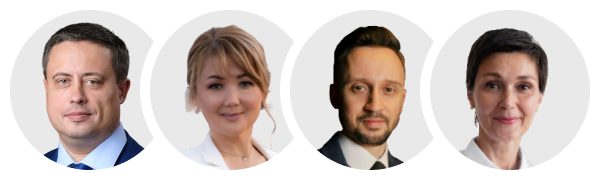
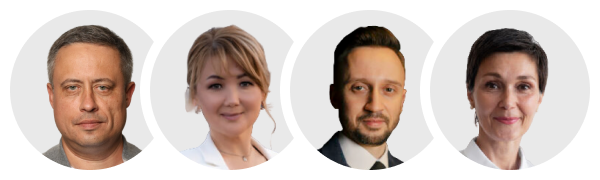
вау, еще правки

Changed region(s): [[0.06, 0.1111, 0.24, 0.9444]]

diff --git a/assets/src/scss/main.scss b/assets/src/scss/main.scss
@@ -1125,7 +1125,67 @@ section:first-child {
     font-size: 14px;
     line-height: 120%;
   }
+}
 
+// это стили для блока с файлом
+
+.text-block {
+  .ren8 {
+    background: #f9f9f9; 
+    border: 1px solid #e5e5e5; 
+    border-radius: 4px;
+    padding: 25px;
+    margin: 40px 0; 
+    box-sizing: border-box;
+
+    & > p:first-child {
+      font-weight: 600; 
+      font-size: 18px;
+      color: #2f2f30;
+      margin-bottom: 12px;
+    }
+
+    & > p:last-child {
+      display: flex; 
+      align-items: center;
+    }
+
+    img.fileico {
+      width: 32px;
+      height: auto;
+      margin-right: 15px;
+      display: block;
+    }
+
+    a.bilnk {
+      font-weight: 500;
+      font-size: 16px;
+      line-height: 130%;
+      color: #2d6281; 
+      text-decoration: underline;
+      transition: color 0.3s ease;
+      word-break: break-word; 
+
+      &:hover {
+        text-decoration: none;
+        color: #da4f39; 
+      }
+    }
+  }
+}
+
+@media (max-width: 420px) {
+  .text-block .ren8 {
+    padding: 20px;
+    
+    & > p:first-child {
+      font-size: 16px;
+    }
+
+    a.bilnk {
+      font-size: 14px;
+    }
+  }
 }
 
 //====================================================================================================

diff --git a/assets/src/scss/main-diff.scss b/assets/src/scss/main-diff.scss
@@ -1508,9 +1508,9 @@ img {
   align-items: center;
 }
 
-.spheres-text {
-  max-width: 380px;
-}
+// .spheres-text {
+//   max-width: 400px;
+// }
 
 @media screen and (max-width: 420px) {
   .calc-body__sub-wrapper a {
@@ -3410,6 +3410,17 @@ img {
   .faq-accordion__subtitle {
     max-width: 590px;
     margin: 0 auto;
+  }
+}
+
+.pricing__link {
+  color: #2d6281; 
+  text-decoration: underline;
+  transition: all 0.3s ease;
+
+  &:hover {
+    color: #da4f39;
+    text-decoration: none;
   }
 }
 

diff --git a/templates/buh-vosstanovlenie-template.php b/templates/buh-vosstanovlenie-template.php
@@ -707,7 +707,7 @@ get_header();
               <img src="<?php echo get_template_directory_uri(); ?>/static/img/icons/tiles/spheres3.png"
                    alt="sphere icons" class="sphere-img">
               <span class="spheres-text">
-            <?php echo $reviews_query->found_posts; ?>+ положительных отзывов <br>от бизнеса Москвы и МО
+            120+ положительных отзывов <br>от бизнеса Москвы и МО
           </span>
             </div>
             <a href="<?php echo home_url('/otzivi/'); ?>" class="btn btn_arr">Все отзывы</a>
@@ -749,169 +749,45 @@ get_header();
         </h2>
 
         <div class="case-tiles__grid">
+          <?php
+          $cases_query = new WP_Query([
+            'post_type'      => 'buh_keysi',
+            'posts_per_page' => 6,
+            'post_status'    => 'publish',
+          ]);
 
-          <div class="case-card">
-            <div class="case-card__case-number">
-              <p>Кейс #1</p>
-            </div>
-            <img class="case-card__icon"
-                 src="<?php echo get_template_directory_uri(); ?>\static\img\icons\main-page\online-white.svg"
-                 alt="Online shops Icon">
-            <h3 class="case-card__title">Интернет-магазин</h3>
-            <div class="case-card__desc">
-              <svg width="22" height="22" viewBox="0 0 22 22" fill="none" xmlns="http://www.w3.org/2000/svg">
-                <path
-                  d="M8.75417 16.5005L3.52917 11.2755L4.83542 9.96921L8.75417 13.888L17.1646 5.47754L18.4708 6.78379L8.75417 16.5005Z"
-                  fill="url(#paint0_linear_262_1127)"/>
-                <defs>
-                  <linearGradient id="paint0_linear_262_1127" x1="11.0372" y1="16.5005" x2="11.0372" y2="5.47754"
-                                  gradientUnits="userSpaceOnUse">
-                    <stop stop-color="#F0572D"/>
-                    <stop offset="1" stop-color="#CE441E"/>
-                  </linearGradient>
-                </defs>
-              </svg>
-              <p>
-                Снизили задолженность по налогам на <span class="text-blue" style="font-weight: 590">3,7 млн ₽ (–88%)</span>
-              </p>
-            </div>
-          </div>
-
-          <div class="case-card">
-            <div class="case-card__case-number">
-              <p>Кейс #2</p>
-            </div>
-            <img class="case-card__icon"
-                 src="<?php echo get_template_directory_uri(); ?>\static\img\icons\main-page\online-white.svg"
-                 alt="Online shops Icon">
-            <h3 class="case-card__title">Строительная компания</h3>
-            <div class="case-card__desc">
-              <svg width="22" height="22" viewBox="0 0 22 22" fill="none" xmlns="http://www.w3.org/2000/svg">
-                <path
-                  d="M8.75417 16.5005L3.52917 11.2755L4.83542 9.96921L8.75417 13.888L17.1646 5.47754L18.4708 6.78379L8.75417 16.5005Z"
-                  fill="url(#paint0_linear_262_1127)"/>
-                <defs>
-                  <linearGradient id="paint0_linear_262_1127" x1="11.0372" y1="16.5005" x2="11.0372" y2="5.47754"
-                                  gradientUnits="userSpaceOnUse">
-                    <stop stop-color="#F0572D"/>
-                    <stop offset="1" stop-color="#CE441E"/>
-                  </linearGradient>
-                </defs>
-              </svg>
-              <p>
-                Вернули переплаченные налоги: <span class="text-blue" style="font-weight: 590">205 000 ₽</span>
-              </p>
-            </div>
-          </div>
-
-          <div class="case-card">
-            <div class="case-card__case-number">
-              <p>Кейс #3</p>
-            </div>
-            <img class="case-card__icon"
-                 src="<?php echo get_template_directory_uri(); ?>\static\img\icons\main-page\cafe-white.svg"
-                 alt="Online shops Icon">
-            <h3 class="case-card__title">Строительная компания</h3>
-            <div class="case-card__desc">
-              <svg width="22" height="22" viewBox="0 0 22 22" fill="none" xmlns="http://www.w3.org/2000/svg">
-                <path
-                  d="M8.75417 16.5005L3.52917 11.2755L4.83542 9.96921L8.75417 13.888L17.1646 5.47754L18.4708 6.78379L8.75417 16.5005Z"
-                  fill="url(#paint0_linear_262_1127)"/>
-                <defs>
-                  <linearGradient id="paint0_linear_262_1127" x1="11.0372" y1="16.5005" x2="11.0372" y2="5.47754"
-                                  gradientUnits="userSpaceOnUse">
-                    <stop stop-color="#F0572D"/>
-                    <stop offset="1" stop-color="#CE441E"/>
-                  </linearGradient>
-                </defs>
-              </svg>
-              <p>
-                Вернули переплаченные налоги: <span class="text-blue" style="font-weight: 590">205 000 ₽</span>
-              </p>
-            </div>
-          </div>
-
-          <div class="case-card">
-            <div class="case-card__case-number">
-              <p>Кейс #4</p>
-            </div>
-            <img class="case-card__icon"
-                 src="<?php echo get_template_directory_uri(); ?>\static\img\icons\main-page\online-white.svg"
-                 alt="Online shops Icon">
-            <h3 class="case-card__title">Интернет-магазин</h3>
-            <div class="case-card__desc">
-              <svg width="22" height="22" viewBox="0 0 22 22" fill="none" xmlns="http://www.w3.org/2000/svg">
-                <path
-                  d="M8.75417 16.5005L3.52917 11.2755L4.83542 9.96921L8.75417 13.888L17.1646 5.47754L18.4708 6.78379L8.75417 16.5005Z"
-                  fill="url(#paint0_linear_262_1127)"/>
-                <defs>
-                  <linearGradient id="paint0_linear_262_1127" x1="11.0372" y1="16.5005" x2="11.0372" y2="5.47754"
-                                  gradientUnits="userSpaceOnUse">
-                    <stop stop-color="#F0572D"/>
-                    <stop offset="1" stop-color="#CE441E"/>
-                  </linearGradient>
-                </defs>
-              </svg>
-              <p>
-                Снизили задолженность по налогам на <span class="text-blue" style="font-weight: 590">3,7 млн ₽ (–88%)</span>
-              </p>
-            </div>
-          </div>
-
-          <div class="case-card">
-            <div class="case-card__case-number">
-              <p>Кейс #2</p>
-            </div>
-            <img class="case-card__icon"
-                 src="<?php echo get_template_directory_uri(); ?>\static\img\icons\main-page\online-white.svg"
-                 alt="Online shops Icon">
-            <h3 class="case-card__title">Строительная компания</h3>
-            <div class="case-card__desc">
-              <svg width="22" height="22" viewBox="0 0 22 22" fill="none" xmlns="http://www.w3.org/2000/svg">
-                <path
-                  d="M8.75417 16.5005L3.52917 11.2755L4.83542 9.96921L8.75417 13.888L17.1646 5.47754L18.4708 6.78379L8.75417 16.5005Z"
-                  fill="url(#paint0_linear_262_1127)"/>
-                <defs>
-                  <linearGradient id="paint0_linear_262_1127" x1="11.0372" y1="16.5005" x2="11.0372" y2="5.47754"
-                                  gradientUnits="userSpaceOnUse">
-                    <stop stop-color="#F0572D"/>
-                    <stop offset="1" stop-color="#CE441E"/>
-                  </linearGradient>
-                </defs>
-              </svg>
-              <p>
-                Вернули переплаченные налоги: <span class="text-blue" style="font-weight: 590">205 000 ₽</span>
-              </p>
-            </div>
-          </div>
-
-          <div class="case-card">
-            <div class="case-card__case-number">
-              <p>Кейс #3</p>
-            </div>
-            <img class="case-card__icon"
-                 src="<?php echo get_template_directory_uri(); ?>\static\img\icons\main-page\cafe-white.svg"
-                 alt="Online shops Icon">
-            <h3 class="case-card__title">Строительная компания</h3>
-            <div class="case-card__desc">
-              <svg width="22" height="22" viewBox="0 0 22 22" fill="none" xmlns="http://www.w3.org/2000/svg">
-                <path
-                  d="M8.75417 16.5005L3.52917 11.2755L4.83542 9.96921L8.75417 13.888L17.1646 5.47754L18.4708 6.78379L8.75417 16.5005Z"
-                  fill="url(#paint0_linear_262_1127)"/>
-                <defs>
-                  <linearGradient id="paint0_linear_262_1127" x1="11.0372" y1="16.5005" x2="11.0372" y2="5.47754"
-                                  gradientUnits="userSpaceOnUse">
-                    <stop stop-color="#F0572D"/>
-                    <stop offset="1" stop-color="#CE441E"/>
-                  </linearGradient>
-                </defs>
-              </svg>
-              <p>
-                Вернули переплаченные налоги: <span class="text-blue" style="font-weight: 590">205 000 ₽</span>
-              </p>
-            </div>
-          </div>
-
+          if ($cases_query->have_posts()) :
+            $case_num = 0;
+            while ($cases_query->have_posts()) : $cases_query->the_post();
+              $case_num++;
+              $icon = get_field('case_icon');
+              ?>
+              <div class="case-card">
+                <div class="case-card__case-number">
+                  <p>Кейс #<?php echo $case_num; ?></p>
+                </div>
+                <img class="case-card__icon"
+                     src="<?php echo $icon ? esc_url($icon['url']) : get_template_directory_uri() . '/static/img/icons/main-page/online-white.svg'; ?>"
+                     alt="<?php the_title_attribute(); ?>">
+                <h3 class="case-card__title"><?php the_title(); ?></h3>
+                <div class="case-card__desc">
+                  <svg style="display: none" width="22" height="22" viewBox="0 0 22 22" fill="none" xmlns="http://www.w3.org/2000/svg">
+                    <path d="M8.75417 16.5005L3.52917 11.2755L4.83542 9.96921L8.75417 13.888L17.1646 5.47754L18.4708 6.78379L8.75417 16.5005Z" fill="url(#paint0_linear_<?php echo $case_num; ?>)"/>
+                    <defs>
+                      <linearGradient id="paint0_linear_<?php echo $case_num; ?>" x1="11.0372" y1="16.5005" x2="11.0372" y2="5.47754" gradientUnits="userSpaceOnUse">
+                        <stop stop-color="#F0572D"/>
+                        <stop offset="1" stop-color="#CE441E"/>
+                      </linearGradient>
+                    </defs>
+                  </svg>
+                  <p><?php echo get_the_excerpt(); ?></p>
+                </div>
+              </div>
+            <?php
+            endwhile;
+            wp_reset_postdata();
+          endif;
+          ?>
         </div>
 
         <div class="industries-footer">

diff --git a/templates/fp-template.php b/templates/fp-template.php
@@ -749,7 +749,7 @@ get_header();
           <div class="footer-left">
             <img src="<?php echo get_template_directory_uri(); ?>/static/img/icons/tiles/spheres2.png"
                  alt="sphere icons" class="sphere-img">
-            <span class="spheres-text">Еще более 120+ реальных результатов наших клиентов</span>
+            <span class="spheres-text">Еще более 40+ реальных результатов наших клиентов</span>
           </div>
           <a href="<?php echo get_post_type_archive_link('buh_keysi'); ?>" class="btn btn_arr">Все кейсы</a>
         </div>
@@ -841,7 +841,7 @@ get_header();
               <img src="<?php echo get_template_directory_uri(); ?>/static/img/icons/tiles/spheres3.png"
                    alt="sphere icons" class="sphere-img">
               <span class="spheres-text">
-            <?php echo $reviews_query->found_posts; ?>+ положительных отзывов <br>от бизнеса Москвы и МО
+            120+ положительных отзывов от <br>бизнеса Москвы и МО
           </span>
             </div>
             <a href="<?php echo home_url('/otzivi/'); ?>" class="btn btn_arr">Все отзывы</a>

diff --git a/templates/buh-oao-template.php b/templates/buh-oao-template.php
@@ -379,7 +379,7 @@ get_header();
               <img src="<?php echo get_template_directory_uri(); ?>/static/img/icons/tiles/spheres3.png"
                    alt="sphere icons" class="sphere-img">
               <span class="spheres-text">
-            <?php echo $reviews_query->found_posts; ?>+ положительных отзывов <br>от бизнеса Москвы и МО
+            120+ положительных отзывов <br>от бизнеса Москвы и МО
           </span>
             </div>
             <a href="<?php echo home_url('/otzivi/'); ?>" class="btn btn_arr">Все отзывы</a>

diff --git a/templates/buh-ooo-template.php b/templates/buh-ooo-template.php
@@ -476,7 +476,7 @@ get_header();
               <img src="<?php echo get_template_directory_uri(); ?>/static/img/icons/tiles/spheres3.png"
                    alt="sphere icons" class="sphere-img">
               <span class="spheres-text">
-            <?php echo $reviews_query->found_posts; ?>+ положительных отзывов <br>от бизнеса Москвы и МО
+            120+ положительных отзывов <br>от бизнеса Москвы и МО
           </span>
             </div>
             <a href="<?php echo home_url('/otzivi/'); ?>" class="btn btn_arr">Все отзывы</a>

diff --git a/templates/ip-buh-template.php b/templates/ip-buh-template.php
@@ -560,7 +560,7 @@ get_header();
               <img src="<?php echo get_template_directory_uri(); ?>/static/img/icons/tiles/spheres3.png"
                    alt="sphere icons" class="sphere-img">
               <span class="spheres-text">
-            <?php echo $reviews_query->found_posts; ?>+ положительных отзывов <br>от бизнеса Москвы и МО
+            120+ положительных отзывов <br>от бизнеса Москвы и МО
           </span>
             </div>
             <a href="<?php echo home_url('/otzivi/'); ?>" class="btn btn_arr">Все отзывы</a>

diff --git a/templates/buh-express-template.php b/templates/buh-express-template.php
@@ -480,7 +480,7 @@ get_header();
             alt="fire" id="pricing__icon">
 
         <p class="pricing__subtitle">
-            При заказе <span class="text-blue" style="text-decoration: underline #2d6281;">восстановления бухгалтерии</span> — аудит проводится бесплатно.
+            При заказе <a href="/buh-vosstanovlenie/" class="pricing__link">восстановления бухгалтерии</a> — аудит проводится бесплатно.
         </p>
 
         <div class="scroll-indicator">

diff --git a/templates/o-company.php b/templates/o-company.php
@@ -16,7 +16,7 @@ get_header();
             </h1>
 
             <div class="pro-center__avatars-wrapper">
-                <img src="<?php echo get_template_directory_uri(); ?>/static/img/team/round-1.jpg"
+                <img src="<?php echo get_template_directory_uri(); ?>/static/img/team/round-1.png"
                 alt="Команда часть 1"
                 class="pro-center__avatar-img">
                 <img src="<?php echo get_template_directory_uri(); ?>/static/img/team/round-2.png"

diff --git a/single-consultation.php b/single-consultation.php
@@ -24,7 +24,7 @@
                     <div class="cons-sidebar__body">
                         <div class="cons-sidebar__person-info">
                             <img src="<?php echo get_template_directory_uri(); ?>/static/img/faq-post/avatar.png" alt="Avatar">
-                            <span>Булат Япаров</span>
+                            <span>Булат Яппаров</span>
                         </div>
 
                         <p class="cons-sidebar__text">
